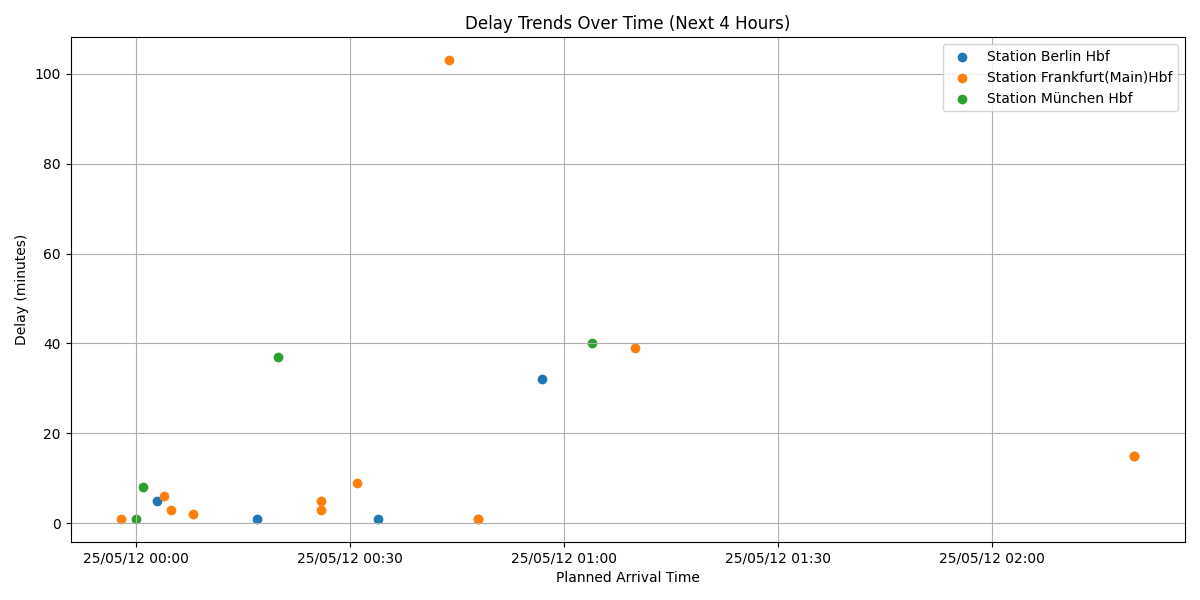
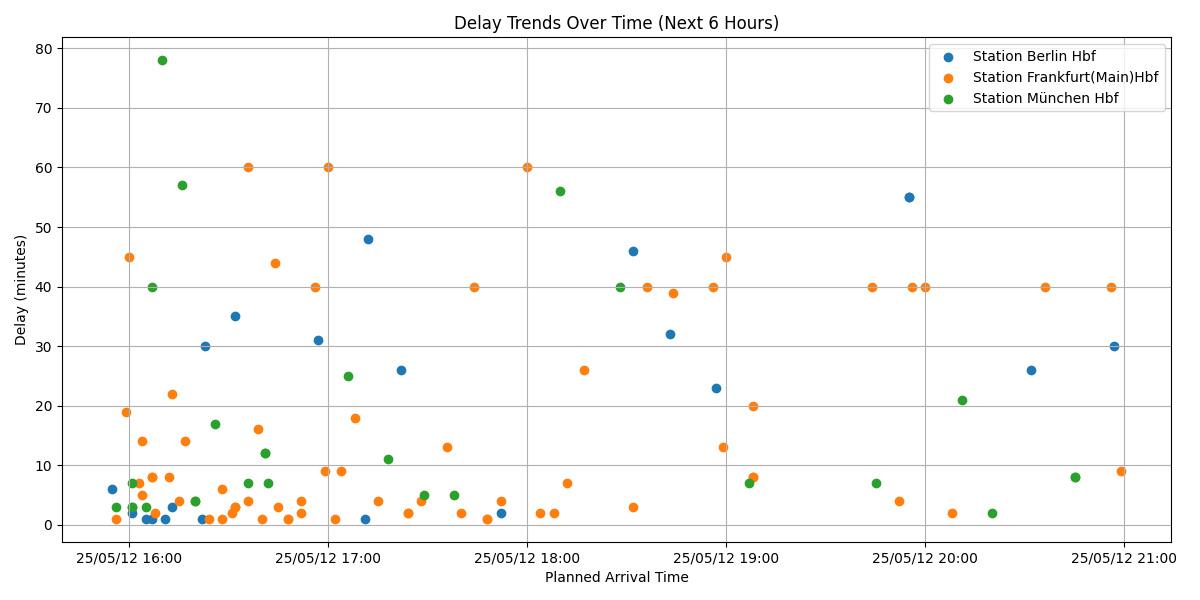
Update demo analysis image

diff --git a/src/app/data_pipelines/etl.py b/src/app/data_pipelines/etl.py
@@ -67,13 +67,10 @@ def etl_planned_data(conn,evaNo, date, hour):
             pp = ar.attrib.get("pp", 'NULL') #  planned planned_platform
             ppth = ar.attrib.get("ppth", 'NULL') # planned path
             if pt is None:
-                print("Skipping element with missing 'pt'")
                 continue
             if pp is None:
-                print("Skipping element with missing 'pp")
                 continue
             if ppth is None:
-                print("Skipping element with missing 'ppth'")
                 continue    
             pt_timestamp = datetime.strptime(pt, "%y%m%d%H%M")
                         # Truncate Microseconds

diff --git a/src/app/data_analysis/punctuality.py b/src/app/data_analysis/punctuality.py
@@ -88,5 +88,5 @@ def delayed_arrivals(engine, evanos: list[int],next_hours: int):
 
 if __name__ == "__main__":
     # Berlin hbf:8098160, München hbf:8000261, Frankfurt am Main hbf:8000105
-    delayed_arrivals(engine, [8098160,8000261,8000105],4)
+    delayed_arrivals(engine, [8098160,8000261,8000105],6)
 
